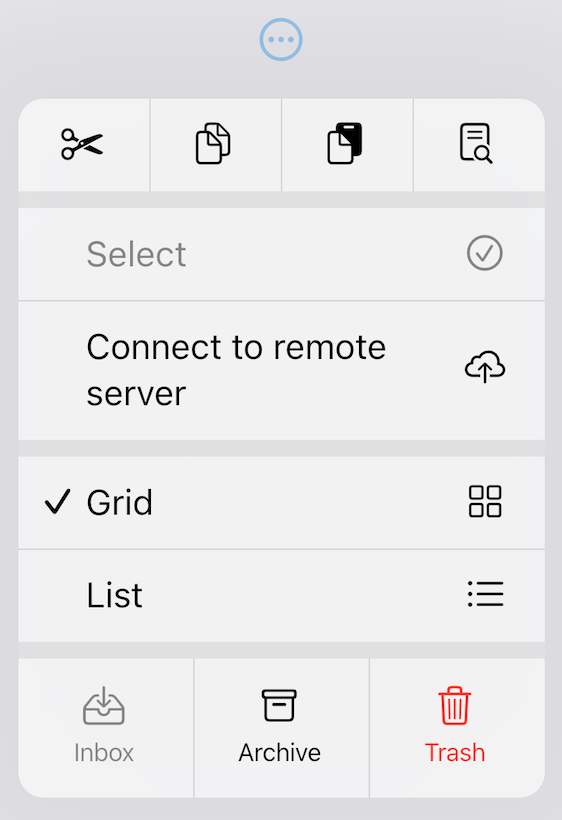
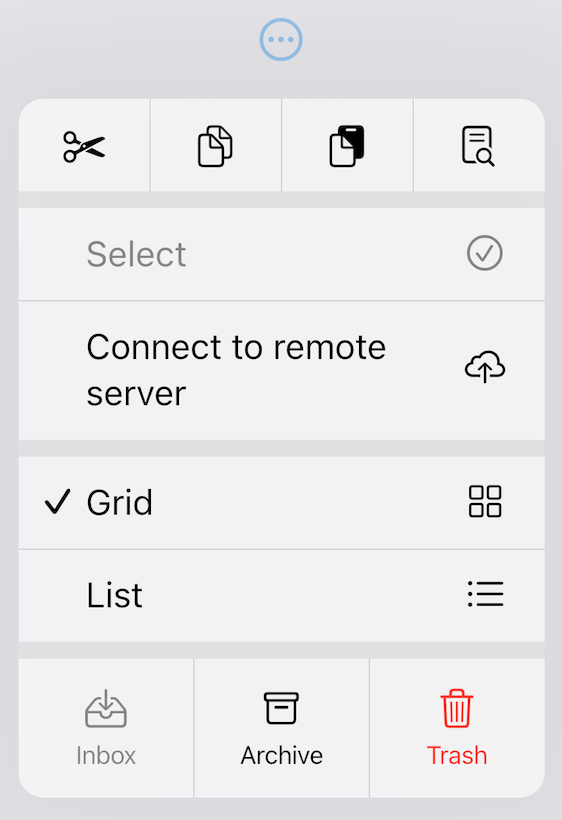
v0.6.1

diff --git a/lib/src/items/item.dart b/lib/src/items/item.dart
@@ -13,6 +13,7 @@ const EdgeInsetsGeometry _kItemPadding =
     EdgeInsetsDirectional.only(start: 16, end: 18, top: 9.5, bottom: 12.5);
 const EdgeInsetsGeometry _kSelectableItemPadding =
     EdgeInsetsDirectional.only(start: 13, end: 18, top: 9.5, bottom: 12.5);
+const EdgeInsetsGeometry _kIconActionPadding = EdgeInsetsDirectional.all(8);
 
 /// An item in a cupertino style pull-down menu.
 ///
@@ -172,7 +173,7 @@ class PullDownMenuItem extends StatelessWidget implements PullDownMenuEntry {
     switch (size) {
       case ElementSize.small:
         child = Padding(
-          padding: _kItemPadding,
+          padding: _kIconActionPadding,
           child: Center(child: iconWidget ?? Icon(icon)),
         );
         break;
@@ -353,7 +354,7 @@ class _MediumItem extends StatelessWidget {
 
   @override
   Widget build(BuildContext context) => Padding(
-        padding: _kItemPadding,
+        padding: _kIconActionPadding,
         child: Column(
           crossAxisAlignment: CrossAxisAlignment.stretch,
           mainAxisAlignment: MainAxisAlignment.center,

diff --git a/CHANGELOG.md b/CHANGELOG.md
@@ -1,3 +1,7 @@
+## 0.6.1
+
+- Fix `PullDownMenuActionsRow` items content not being centered;
+
 ## 0.6.0
 
 - Added `PullDownMenuItemsOrder` - an ordering logic for `PullDownButton` and `showPullDownMenu` items.
